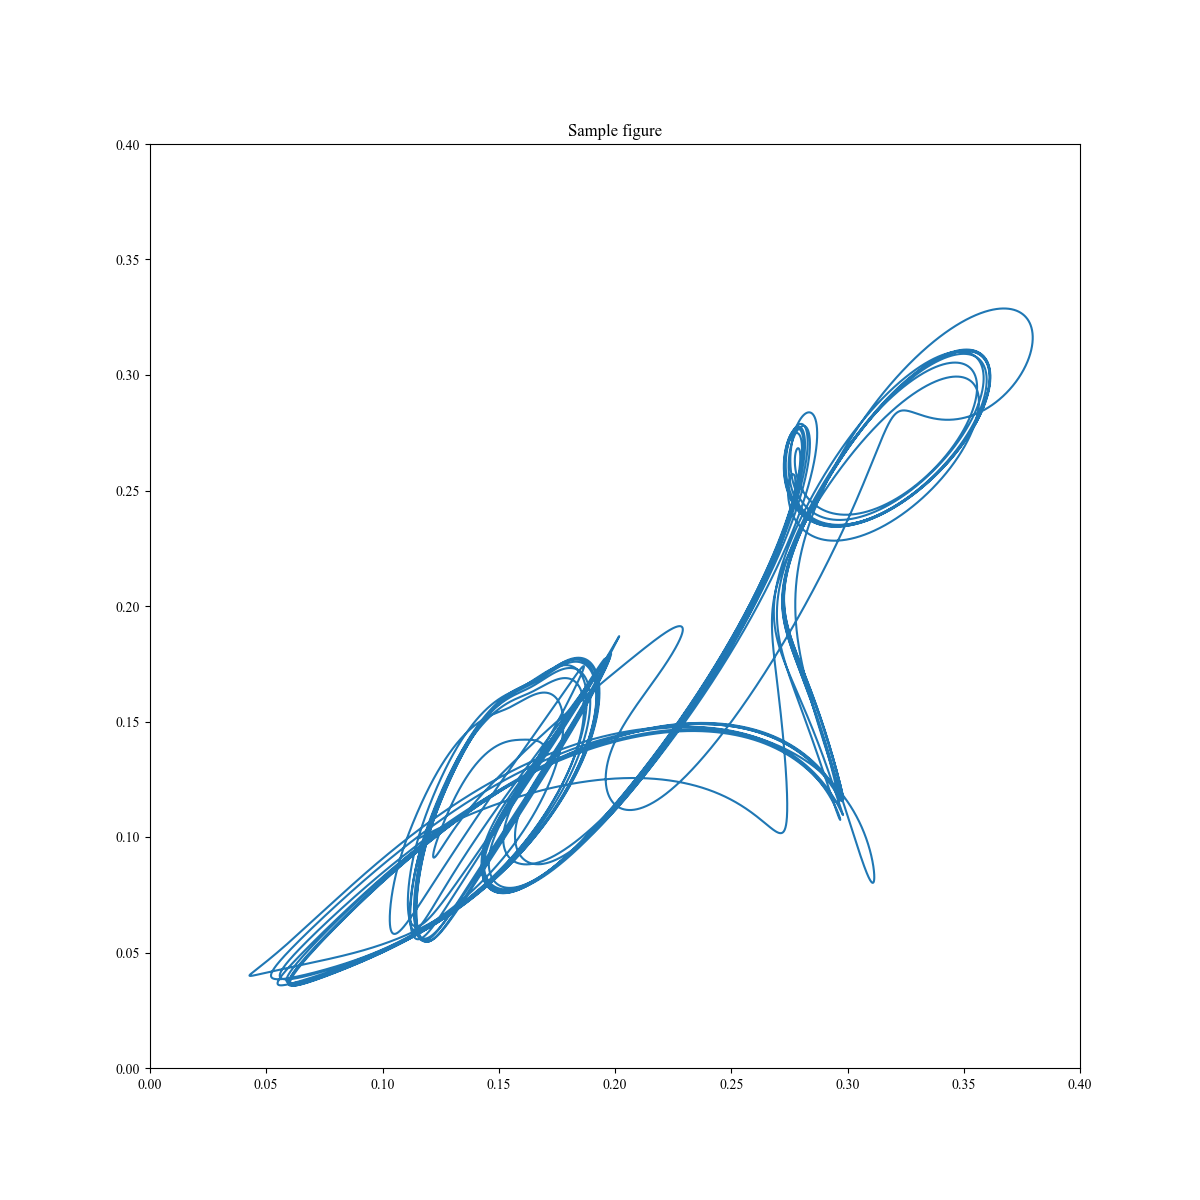
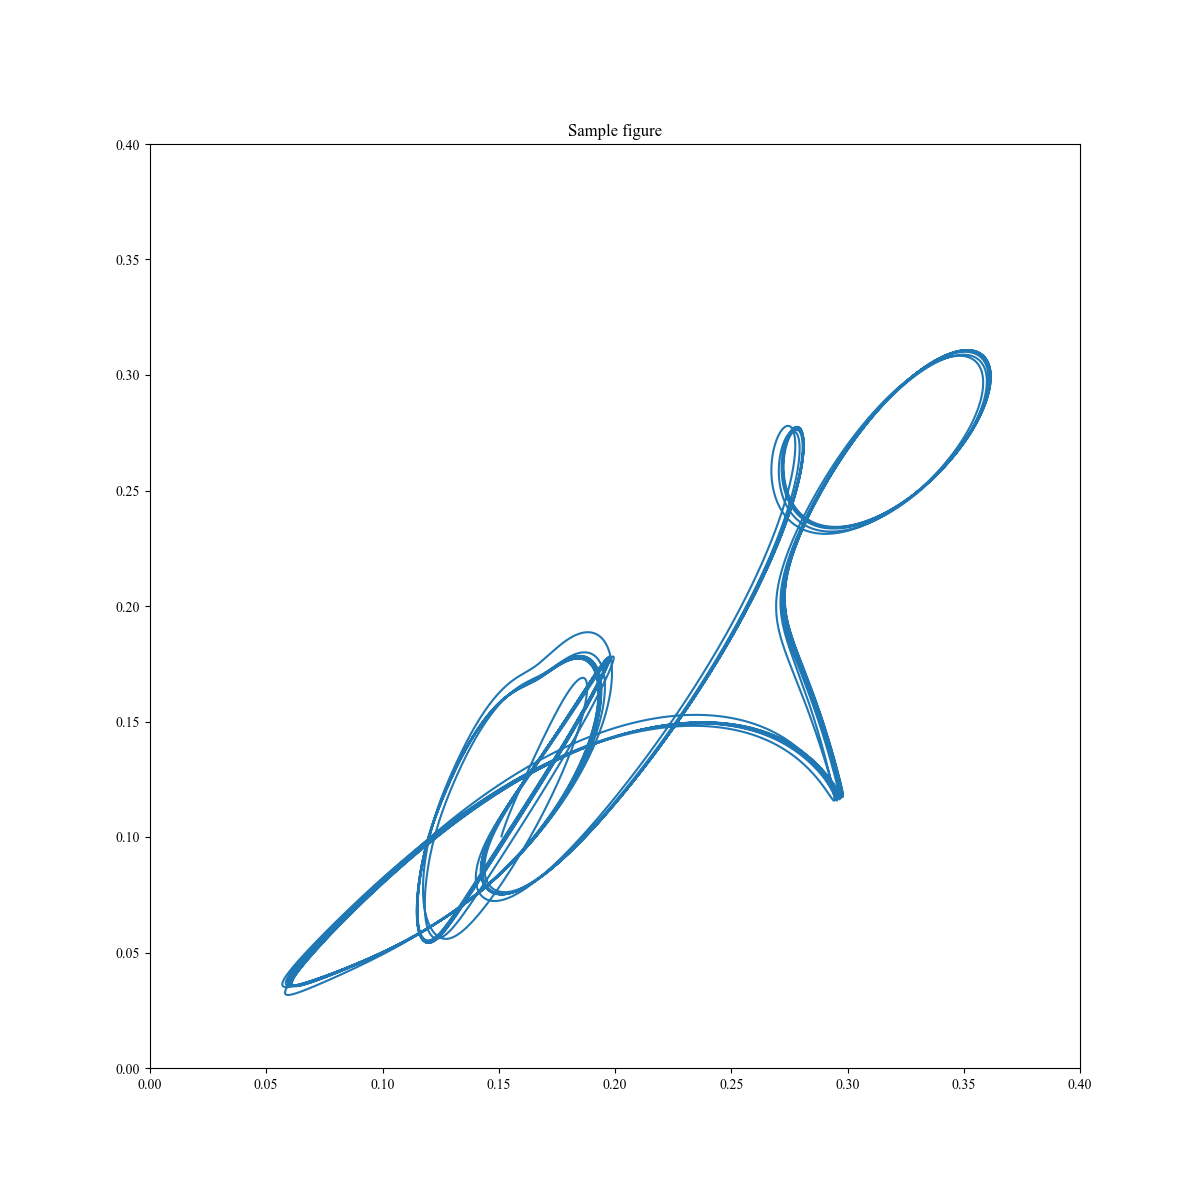
update

Changed region(s): [[0.2158, 0.2775, 0.8325, 0.8325], [0.7092, 0.6783, 0.74, 0.74]]

diff --git a/code/good_initialValue.cpp b/code/good_initialValue.cpp
@@ -22,26 +22,26 @@ int main(){
     std::complex<double> f = std::complex<double>(1.0,1.0) * 5.0 * 0.001;
     double ddt = 0.01;
     double t_0 = 0;
-    double t = 200;
+    double t = 500;
     double latter = 1;
-    Eigen::VectorXcd x_0 = npy2EigenVec<std::complex<double>>("../../initials/beta0.43_nu0.00018_300period_dt0.01eps0.005.npy");
+    Eigen::VectorXcd x_0 = npy2EigenVec<std::complex<double>>("../../initials/beta0.43_nu0.00018_827period_dt0.01eps0.005.npy");
     ShellModel SM(nu, beta, f, ddt, t_0, t, latter, x_0);
     Eigen::MatrixXcd laminar = SM.get_trajectory_();
-    int numRows = laminar.cols() / 4;
+    int numRows = laminar.cols() / 5;
     Eigen::MatrixXcd laminar_sample(laminar.rows(), numRows);
     for (int i = 0; i < numRows; i++){
-        int colIdx = 4 * i;
+        int colIdx = 5 * i;
         laminar_sample.col(i) = laminar.col(colIdx);
     }
-    // // undo comment out if you want to see laminar sample
-    // std::vector<double> x(laminar_sample.cols()),y(laminar_sample.cols());
-    // for(int i = 0; i < laminar_sample.cols(); i++){
-    //     x[i] = std::abs(laminar_sample(3, i));
-    //     y[i] = std::abs(laminar_sample(4, i));
-    // }
-    // plt::figure();
-    // plt::scatter(x, y);
-    // plt::save("../../laminar_sample.png");
+    // undo comment out if you want to see laminar sample
+    std::vector<double> x(laminar_sample.cols()),y(laminar_sample.cols());
+    for(int i = 0; i < laminar_sample.cols(); i++){
+        x[i] = std::abs(laminar_sample(3, i));
+        y[i] = std::abs(laminar_sample(4, i));
+    }
+    plt::figure();
+    plt::scatter(x, y);
+    plt::save("../../laminar_sample.png");
 
     // set up for search
     t=1000;
@@ -49,10 +49,10 @@ int main(){
     nu = 0.00018;
     beta = 0.43;
     ddt = 0.01;
-    x_0 = npy2EigenVec<std::complex<double>>("../../initials/beta0.43_nu0.00018_300period_dt0.01eps0.005.npy");
+    x_0 = npy2EigenVec<std::complex<double>>("../../initials/beta0.43_nu0.00018_827period_dt0.01eps0.005.npy");
     int num_of_candidates = omp_get_max_threads();
     int skip = 100;
-    double epsilon = 3E-3;
+    double epsilon = 1E-3;
     int threads = omp_get_max_threads();
     std::cout << threads << "threads" << std::endl;
 

diff --git a/code/trajectory_observation.cpp b/code/trajectory_observation.cpp
@@ -21,7 +21,7 @@ int main(){
     double t_0 = 0;
     double t = 1000;
     double latter = 1;
-    Eigen::VectorXcd x_0 = npy2EigenVec<std::complex<double>>("../../initials/beta0.43_nu0.00018_1000period_dt0.01eps0.05.npy");
+    Eigen::VectorXcd x_0 = npy2EigenVec<std::complex<double>>("../../initials/beta0.43_nu0.00018_827period_dt0.01eps0.005.npy");
     ShellModel solver(nu, beta, f, ddt, t_0, t, latter, x_0);
     Eigen::MatrixXcd trajectory = solver.get_trajectory_(); 
     // plot settings
